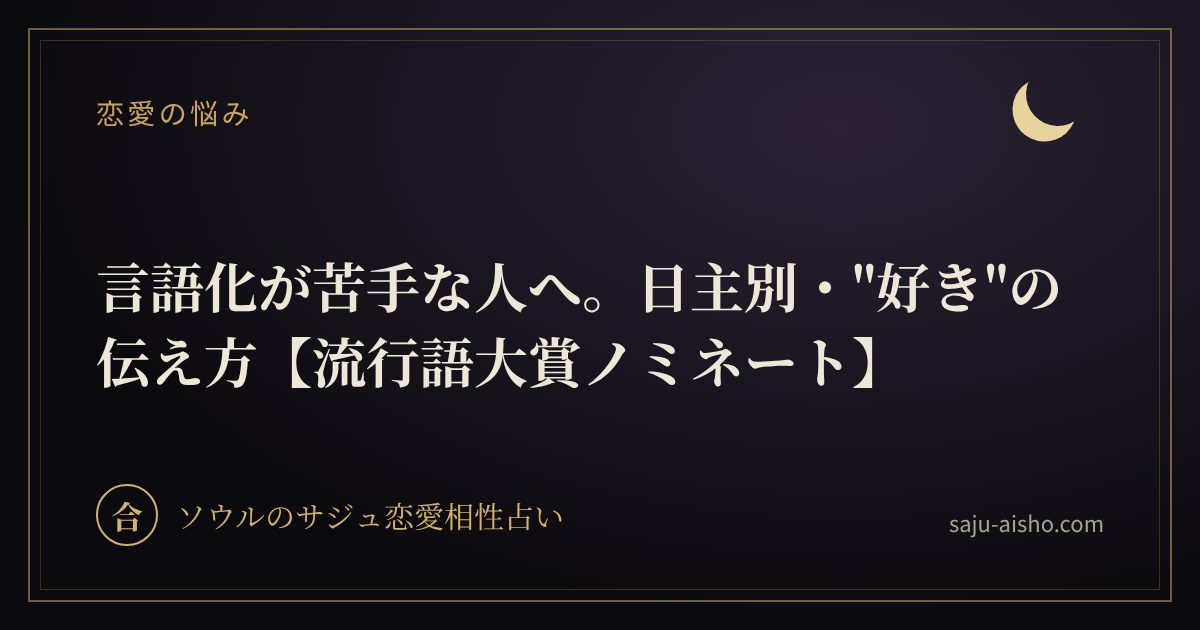
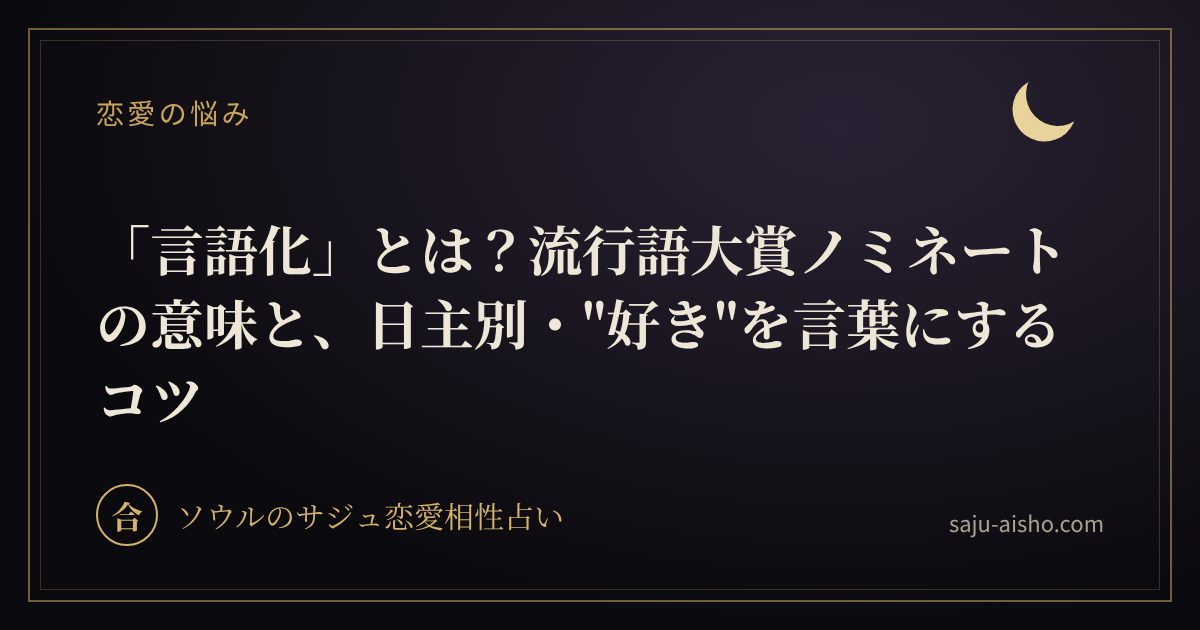
言語化の記事と日主10本のタイトルを、検索の意図に合う形に変更
Claude-Session: https://claude.ai/code/session_016LnLn1Ec9XyU7DmEpWKGvH

Changed region(s): [[0.0617, 0.3619, 0.8942, 0.6635]]

diff --git a/src/content/articles/gengoka-koi.md b/src/content/articles/gengoka-koi.md
@@ -1,8 +1,9 @@
 ---
-title: 言語化が苦手な人へ。日主別・"好き"の伝え方【流行語大賞ノミネート】
-description: 「好き」やモヤモヤをうまく言葉にできない人へ。韓国の占いサジュ（四柱推命）の日主10タイプ別に、気持ちが伝わりにくい理由と、そのまま使えるひとことの例を紹介します。流行語大賞ノミネート「言語化」から考えます。
+title: 「言語化」とは？流行語大賞ノミネートの意味と、日主別・"好き"を言葉にするコツ
+description: 2026年の新語・流行語大賞にノミネートされた「言語化」。言葉の意味と注目される理由を紹介し、韓国の占いサジュ（四柱推命）の日主10タイプ別に、「好き」やモヤモヤを言葉にするコツと、そのまま使えるひとことの例をまとめました。
 category: 恋愛の悩み
 publishedAt: 2026-11-06
+updatedAt: 2026-11-15
 pr: true
 draft: false
 ---
@@ -18,7 +19,9 @@ draft: false
   <figcaption>イラスト：運営者作成</figcaption>
 </figure>
 
-## 「言語化」が注目される理由
+## 「言語化」とは？流行語大賞にノミネートされた意味
+
+「言語化」とは、頭の中にある考えや気持ちを、言葉にして表すことです。2026年11月5日には、新語・流行語大賞のノミネート30語に選ばれました。年間大賞とトップテンは、12月1日に発表されます。
 
 「言語化」は昔からある言葉ですが、ここ数年で使われる場面が一気に増えました。2024年には、三省堂の辞書編集者が選ぶ「今年の新語」で大賞に選ばれています。「モヤモヤが言語化できない」「言語化してくれてありがとう」のように、SNSでもよく見かけるようになりました。
 

diff --git a/src/content/articles/jinsui.md b/src/content/articles/jinsui.md
@@ -1,5 +1,5 @@
 ---
-title: 壬水（じんすい）の性格と恋愛傾向｜四柱推命・サジュで見る大海タイプ
+title: 壬水（じんすい）とは？性格・恋愛・相性｜四柱推命・サジュの大海タイプ
 description: 四柱推命（サジュ）で日主が壬水の人の性格と恋愛傾向を解説します。大海タイプの愛し方、つまずきやすいところ、相性のいい日主、2027年のキーワードまで紹介します。
 category: 日主
 publishedAt: 2026-11-06

diff --git a/src/content/articles/koboku.md b/src/content/articles/koboku.md
@@ -1,5 +1,5 @@
 ---
-title: 甲木（こうぼく）の性格と恋愛傾向｜四柱推命・サジュで見る大樹タイプ
+title: 甲木（こうぼく）とは？性格・恋愛・相性｜四柱推命・サジュの大樹タイプ
 description: 四柱推命（サジュ）で日主が甲木の人の性格と恋愛傾向を解説します。大樹タイプの愛し方、つまずきやすいところ、相性のいい日主、2027年のキーワードまで紹介します。
 category: 日主
 publishedAt: 2026-10-30

diff --git a/src/content/articles/otsuboku.md b/src/content/articles/otsuboku.md
@@ -1,5 +1,5 @@
 ---
-title: 乙木（おつぼく）の性格と恋愛傾向｜四柱推命・サジュで見る草花タイプ
+title: 乙木（おつぼく）とは？性格・恋愛・相性｜四柱推命・サジュの草花タイプ
 description: 四柱推命（サジュ）で日主が乙木の人の性格と恋愛傾向を解説します。草花タイプの愛し方、つまずきやすいところ、相性のいい日主、2027年のキーワードまで紹介します。
 category: 日主
 publishedAt: 2026-11-06

diff --git a/src/content/articles/shinkin.md b/src/content/articles/shinkin.md
@@ -1,5 +1,5 @@
 ---
-title: 辛金（しんきん）の性格と恋愛傾向｜四柱推命・サジュで見る宝石タイプ
+title: 辛金（しんきん）とは？性格・恋愛・相性｜四柱推命・サジュの宝石タイプ
 description: 四柱推命（サジュ）で日主が辛金の人の性格と恋愛傾向を解説します。宝石タイプの愛し方、つまずきやすいところ、相性のいい日主、2027年のキーワードまで紹介します。
 category: 日主
 publishedAt: 2026-11-06

diff --git a/src/content/articles/heika.md b/src/content/articles/heika.md
@@ -1,5 +1,5 @@
 ---
-title: 丙火（へいか）の性格と恋愛傾向｜四柱推命・サジュで見る太陽タイプ
+title: 丙火（へいか）とは？性格・恋愛・相性｜四柱推命・サジュの太陽タイプ
 description: 四柱推命（サジュ）で日主が丙火の人の性格と恋愛傾向を解説します。太陽タイプの愛し方、つまずきやすいところ、相性のいい日主、2027年のキーワードまで紹介します。
 category: 日主
 publishedAt: 2026-11-06

diff --git a/src/content/articles/kisui.md b/src/content/articles/kisui.md
@@ -1,5 +1,5 @@
 ---
-title: 癸水（きすい）の性格と恋愛傾向｜四柱推命・サジュで見る雨露タイプ
+title: 癸水（きすい）とは？性格・恋愛・相性｜四柱推命・サジュの雨露タイプ
 description: 四柱推命（サジュ）で日主が癸水の人の性格と恋愛傾向を解説します。雨露タイプの愛し方、つまずきやすいところ、相性のいい日主、2027年のキーワードまで紹介します。
 category: 日主
 publishedAt: 2026-11-06

diff --git a/src/content/articles/teika.md b/src/content/articles/teika.md
@@ -1,5 +1,5 @@
 ---
-title: 丁火（ていか）の性格と恋愛傾向｜四柱推命・サジュで見る灯火タイプ
+title: 丁火（ていか）とは？性格・恋愛・相性｜四柱推命・サジュの灯火タイプ
 description: 四柱推命（サジュ）で日主が丁火の人の性格と恋愛傾向を解説します。灯火タイプの愛し方、つまずきやすいところ、相性のいい日主、2027年のキーワードまで紹介します。
 category: 日主
 publishedAt: 2026-11-06

diff --git a/src/content/articles/koukin.md b/src/content/articles/koukin.md
@@ -1,5 +1,5 @@
 ---
-title: 庚金（こうきん）の性格と恋愛傾向｜四柱推命・サジュで見る鋼タイプ
+title: 庚金（こうきん）とは？性格・恋愛・相性｜四柱推命・サジュの鋼タイプ
 description: 四柱推命（サジュ）で日主が庚金の人の性格と恋愛傾向を解説します。鋼タイプの愛し方、つまずきやすいところ、相性のいい日主、2027年のキーワードまで紹介します。
 category: 日主
 publishedAt: 2026-11-06

diff --git a/src/content/articles/kido.md b/src/content/articles/kido.md
@@ -1,5 +1,5 @@
 ---
-title: 己土（きど）の性格と恋愛傾向｜四柱推命・サジュで見る田畑タイプ
+title: 己土（きど）とは？性格・恋愛・相性｜四柱推命・サジュの田畑タイプ
 description: 四柱推命（サジュ）で日主が己土の人の性格と恋愛傾向を解説します。田畑タイプの愛し方、つまずきやすいところ、相性のいい日主、2027年のキーワードまで紹介します。
 category: 日主
 publishedAt: 2026-11-06

diff --git a/src/content/articles/bodo.md b/src/content/articles/bodo.md
@@ -1,5 +1,5 @@
 ---
-title: 戊土（ぼど）の性格と恋愛傾向｜四柱推命・サジュで見る山タイプ
+title: 戊土（ぼど）とは？性格・恋愛・相性｜四柱推命・サジュの山タイプ
 description: 四柱推命（サジュ）で日主が戊土の人の性格と恋愛傾向を解説します。山タイプの愛し方、つまずきやすいところ、相性のいい日主、2027年のキーワードまで紹介します。
 category: 日主
 publishedAt: 2026-11-06
